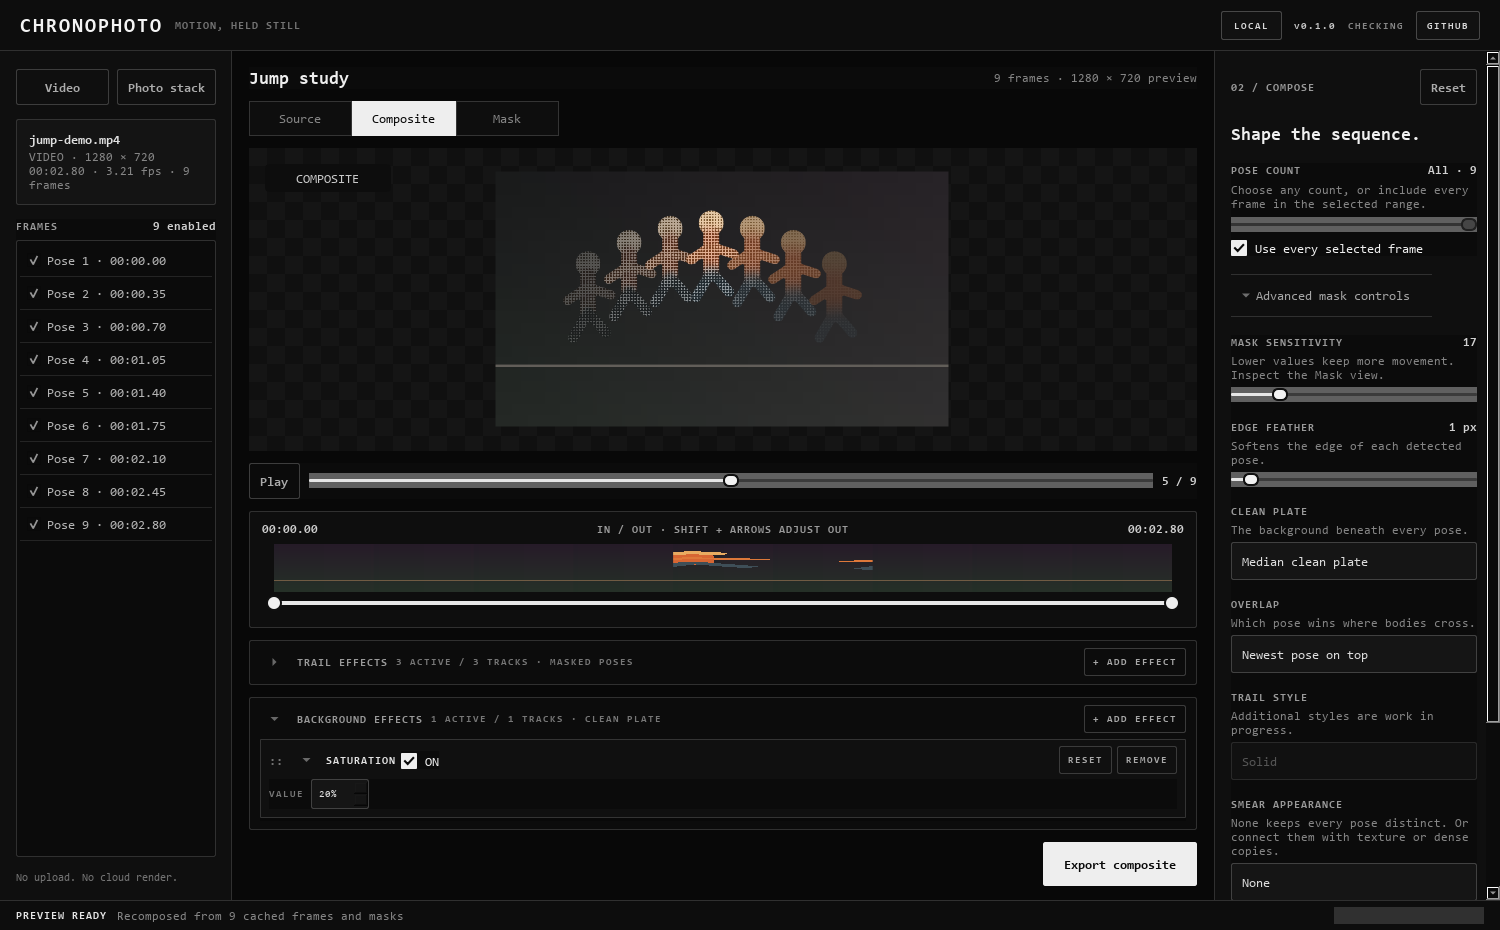
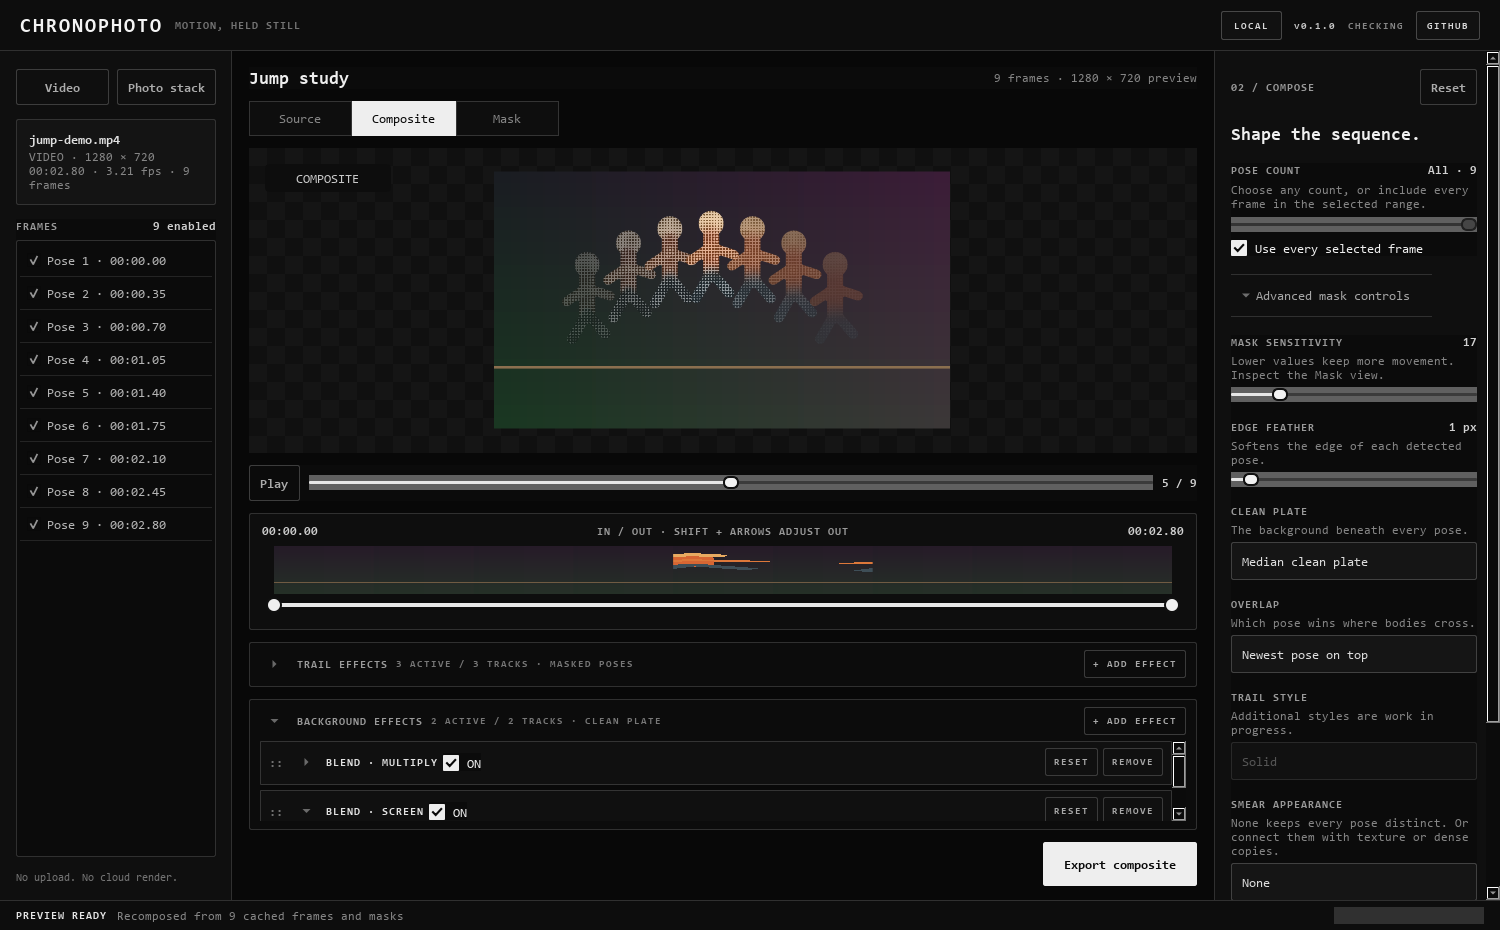
Allow ordered blend mode stacks

diff --git a/src/chronophoto/ui/effects.py b/src/chronophoto/ui/effects.py
@@ -319,6 +319,7 @@ class EffectLane(QFrame):
         self.setObjectName("effectLane")
         self._track = track
         self._keyframed = keyframed
+        self._narrow = False
         layout = QVBoxLayout(self)
         layout.setContentsMargins(8, 6, 8, 8)
         layout.setSpacing(5)
@@ -334,8 +335,8 @@ class EffectLane(QFrame):
         self.collapse_button.setArrowType(Qt.ArrowType.DownArrow)
         self.collapse_button.setToolTip("Collapse effect lane")
         self.collapse_button.clicked.connect(self._toggle_collapsed)
-        label = QLabel(EFFECT_LABELS[track.kind].upper())
-        label.setObjectName("effectName")
+        self.name_label = QLabel(EFFECT_LABELS[track.kind].upper())
+        self.name_label.setObjectName("effectName")
         self.enabled_box = QCheckBox("ON")
         self.enabled_box.setChecked(track.enabled)
         self.enabled_box.setToolTip("Bypass this effect without losing its settings")
@@ -364,7 +365,7 @@ class EffectLane(QFrame):
         self.more_button.hide()
         header.addWidget(self.drag_handle)
         header.addWidget(self.collapse_button)
-        header.addWidget(label)
+        header.addWidget(self.name_label)
         header.addWidget(self.enabled_box)
         header.addStretch()
         header.addWidget(self.preset)
@@ -460,6 +461,7 @@ class EffectLane(QFrame):
         self.position_label.setVisible(keyframed)
         self.position_spin.setVisible(keyframed)
         self.graph.setVisible(keyframed)
+        self._sync_name_label()
         self._sync_enabled_style()
 
     @property
@@ -532,6 +534,7 @@ class EffectLane(QFrame):
         with QSignalBlocker(self.preset):
             self.preset.setCurrentIndex(0)
         self.graph.set_keyframes(self._track.keyframes)
+        self._sync_name_label()
         self._sync_enabled_style()
         self.track_committed.emit(self._track)
 
@@ -543,7 +546,17 @@ class EffectLane(QFrame):
         if self.mode_combo is None or self.mode_combo.currentData() is None:
             return
         self._replace_track(option=str(self.mode_combo.currentData()))
+        self._sync_name_label()
         self.track_committed.emit(self._track)
+
+    def _sync_name_label(self) -> None:
+        if self._track.kind == "blend_mode":
+            separator = "/" if self._narrow else " · "
+            self.name_label.setText(
+                f"BLEND{separator}{BLEND_MODE_LABELS[self._track.option].upper()}"
+            )
+            return
+        self.name_label.setText(EFFECT_LABELS[self._track.kind].upper())
 
     def _keyframes_changing(self, keyframes: object) -> None:
         with QSignalBlocker(self.preset):
@@ -583,6 +596,8 @@ class EffectLane(QFrame):
     def set_compact(self, compact: bool) -> None:
         self.graph.setMinimumHeight(50 if compact else 60)
         narrow = compact or self.window().width() < 1100 or self.width() < 650
+        self._narrow = narrow
+        self._sync_name_label()
         self.reset_button.setVisible(not narrow)
         self.remove_button.setVisible(not narrow)
         self.more_button.setVisible(narrow)
@@ -598,7 +613,8 @@ class EffectLane(QFrame):
         if self.mode_label is not None:
             self.mode_label.setVisible(not narrow)
         if self.mode_combo is not None:
-            self.mode_combo.setFixedWidth(144 if narrow else 184)
+            self.mode_combo.setMinimumContentsLength(10 if narrow else 16)
+            self.mode_combo.setFixedWidth(126 if narrow else 184)
         self.graph.setVisible(self._keyframed)
         self.layout().invalidate()
         self.updateGeometry()
@@ -704,18 +720,15 @@ class EffectTimelinePanel(QFrame):
             lane.set_compact(compact)
         self.lane_layout.invalidate()
         self.lane_container.updateGeometry()
-        self.setMinimumHeight(
-            132
-            if self._lanes and self._expanded and self._keyframed
-            else 82
-            if self._lanes and self._expanded
-            else 0
-        )
+        self.setMinimumHeight(self._expanded_minimum_height())
 
     def add_effect(self, kind: str) -> EffectLane:
         if kind not in EFFECT_KINDS:
             raise ValueError(f"unsupported effect: {kind}")
-        existing = next((lane for lane in self._lanes if lane.track.kind == kind), None)
+        existing = next(
+            (lane for lane in self._lanes if lane.track.kind == kind and kind != "blend_mode"),
+            None,
+        )
         if existing is not None:
             existing.show()
             return existing
@@ -746,8 +759,11 @@ class EffectTimelinePanel(QFrame):
         menu = QMenu(self)
         active = {lane.track.kind for lane in self._lanes}
         for kind in EFFECT_KINDS:
-            action = menu.addAction(EFFECT_LABELS[kind])
-            action.setEnabled(kind not in active)
+            label = EFFECT_LABELS[kind]
+            if kind == "blend_mode" and kind in active:
+                label = "Blend mode · add another"
+            action = menu.addAction(label)
+            action.setEnabled(kind == "blend_mode" or kind not in active)
             action.triggered.connect(lambda checked=False, selected=kind: self.add_effect(selected))
         menu.exec(self.add_button.mapToGlobal(self.add_button.rect().bottomLeft()))
 
@@ -785,13 +801,16 @@ class EffectTimelinePanel(QFrame):
             if has_lanes
             else f"NO EFFECTS · {self._scope}"
         )
-        self.setMinimumHeight(
-            132
-            if has_lanes and self._expanded and self._keyframed
-            else 82
-            if has_lanes and self._expanded
-            else 0
-        )
+        self.setMinimumHeight(self._expanded_minimum_height())
+
+    def _expanded_minimum_height(self) -> int:
+        if not self._lanes or not self._expanded:
+            return 0
+        if self._keyframed:
+            return 132
+        if self._compact:
+            return 82
+        return min(128, 82 + max(0, len(self._lanes) - 1) * 38)
 
     def _drag_started(self, lane: object) -> None:
         self._drag_lane = lane if isinstance(lane, EffectLane) else None

diff --git a/tests/test_compositor.py b/tests/test_compositor.py
@@ -15,7 +15,12 @@ from chronophoto.processing.compositor import (
     build_compose_cache,
     compose_sequence,
 )
-from chronophoto.processing.effects import EffectKeyframe, EffectTrack, neutral_effect_track
+from chronophoto.processing.effects import (
+    EffectKeyframe,
+    EffectTrack,
+    blend_mode_rgb,
+    neutral_effect_track,
+)
 
 
 def moving_subject_frames(count: int = 7) -> list[np.ndarray]:
@@ -284,6 +289,34 @@ def test_blend_mode_uses_the_existing_composite_as_its_backdrop() -> None:
     assert result[20, 18] == pytest.approx(expected_first, abs=1.0)
     assert result[20, 56] == pytest.approx(expected_second, abs=1.0)
     assert np.array_equal(result[2, 2], background[2, 2])
+
+
+def test_blend_mode_tracks_stack_against_the_previous_lane_result() -> None:
+    background = np.full((4, 4, 3), (80, 120, 160), dtype=np.uint8)
+    source = np.full_like(background, (210, 70, 40))
+    frames = [source, background.copy()]
+    masks = [np.full((4, 4), 255, dtype=np.uint8), np.zeros((4, 4), dtype=np.uint8)]
+    full = (EffectKeyframe(0.0, 100.0), EffectKeyframe(1.0, 100.0))
+    multiply = EffectTrack("blend_mode", full, option="multiply")
+    screen = EffectTrack("blend_mode", full, option="screen")
+
+    stacked, _ = compose_sequence(
+        frames,
+        ComposeSettings(trail_effect_tracks=(multiply, screen)),
+        cache=ComposeCache(background, masks),
+    )
+    reversed_stack, _ = compose_sequence(
+        frames,
+        ComposeSettings(trail_effect_tracks=(screen, multiply)),
+        cache=ComposeCache(background, masks),
+    )
+
+    first_lane = blend_mode_rgb(
+        background.astype(np.float32), source.astype(np.float32), "multiply"
+    )
+    expected = blend_mode_rgb(first_lane, source.astype(np.float32), "screen")
+    assert stacked[0, 0] == pytest.approx(expected[0, 0], abs=1.0)
+    assert not np.array_equal(stacked, reversed_stack)
 
 
 def test_zero_blend_strength_is_identical_to_normal_compositing() -> None:

diff --git a/tests/test_ui.py b/tests/test_ui.py
@@ -326,6 +326,41 @@ def test_blend_mode_lane_exposes_all_modes_and_commits_selection() -> None:
     window.close()
 
 
+def test_blend_mode_lanes_can_be_stacked_in_both_effect_scopes() -> None:
+    app = QApplication.instance() or QApplication([])
+    window = ChronophotoWindow()
+    window.resize(1500, 900)
+    window.show()
+    app.processEvents()
+
+    with QSignalBlocker(window.trail_effect_timeline):
+        multiply = window.trail_effect_timeline.add_effect("blend_mode")
+        screen = window.trail_effect_timeline.add_effect("blend_mode")
+        first_blur = window.trail_effect_timeline.add_effect("blur")
+        repeated_blur = window.trail_effect_timeline.add_effect("blur")
+        assert screen.mode_combo is not None
+        screen.mode_combo.setCurrentIndex(screen.mode_combo.findData("screen"))
+    assert multiply is not screen
+    assert first_blur is repeated_blur
+    assert multiply.mode_combo is not None
+    assert [track.option for track in window.trail_effect_timeline.tracks()[:2]] == [
+        "multiply",
+        "screen",
+    ]
+    assert multiply.name_label.text().startswith("BLEND")
+    assert screen.name_label.text().startswith("BLEND")
+
+    with QSignalBlocker(window.background_effect_timeline):
+        background_multiply = window.background_effect_timeline.add_effect("blend_mode")
+        background_overlay = window.background_effect_timeline.add_effect("blend_mode")
+    assert background_multiply is not background_overlay
+    assert [track.kind for track in window.background_effect_timeline.tracks()] == [
+        "blend_mode",
+        "blend_mode",
+    ]
+    window.close()
+
+
 def test_effect_keyframe_graph_emits_live_and_committed_updates() -> None:
     _app = QApplication.instance() or QApplication([])
     graph = EffectKeyframeGraph(

diff --git a/src/chronophoto/processing/compositor.py b/src/chronophoto/processing/compositor.py
@@ -339,12 +339,14 @@ def _blend_region(
     alpha_3d = np.clip(alpha, 0.0, 1.0)[..., None]
     normal = source * alpha_3d + target * (1.0 - alpha_3d)
     composite = normal
+    stacked_mode = False
     for track in blend_tracks:
         if not track.enabled or track.kind != "blend_mode":
             continue
         strength = track.value_at(effect_progress) / 100.0
         if strength <= 0.00001 or track.option == "normal":
             continue
+        mode_backdrop = composite if stacked_mode else target
         if track.option == "dissolve":
             height, width = alpha.shape
             y, x = np.indices((height, width), dtype=np.uint32)
@@ -352,11 +354,12 @@ def _blend_region(
             y += np.uint32(max(0, origin[1]))
             noise = ((x * 1597334677) ^ (y * 3812015801)) & 0xFFFF
             visible = noise.astype(np.float32) / 65535.0 < alpha
-            mode_composite = np.where(visible[..., None], source, target)
+            mode_composite = np.where(visible[..., None], source, mode_backdrop)
         else:
-            mode_source = blend_mode_rgb(target, source, track.option)
-            mode_composite = mode_source * alpha_3d + target * (1.0 - alpha_3d)
+            mode_source = blend_mode_rgb(mode_backdrop, source, track.option)
+            mode_composite = mode_source * alpha_3d + mode_backdrop * (1.0 - alpha_3d)
         composite = composite * (1.0 - strength) + mode_composite * strength
+        stacked_mode = True
     return composite
 
 

diff --git a/src/chronophoto/processing/effects.py b/src/chronophoto/processing/effects.py
@@ -531,20 +531,23 @@ def apply_background_effect_tracks(
     source = processed.astype(np.float32)
     alpha_3d = alpha[..., None]
     composite = source * alpha_3d + backdrop * (1.0 - alpha_3d)
+    stacked_mode = False
     for track in active:
         if track.kind != "blend_mode":
             continue
         strength = track.value_at(0.5) / 100.0
         if strength <= 0.00001 or track.option == "normal":
             continue
+        mode_backdrop = composite if stacked_mode else backdrop
         if track.option == "dissolve":
             height, width = alpha.shape
             y, x = np.indices((height, width), dtype=np.uint32)
             noise = ((x * 1597334677) ^ (y * 3812015801)) & 0xFFFF
             visible = noise.astype(np.float32) / 65535.0 < alpha
-            mode_composite = np.where(visible[..., None], source, backdrop)
+            mode_composite = np.where(visible[..., None], source, mode_backdrop)
         else:
-            mode_source = blend_mode_rgb(backdrop, source, track.option)
-            mode_composite = mode_source * alpha_3d + backdrop * (1.0 - alpha_3d)
+            mode_source = blend_mode_rgb(mode_backdrop, source, track.option)
+            mode_composite = mode_source * alpha_3d + mode_backdrop * (1.0 - alpha_3d)
         composite = composite * (1.0 - strength) + mode_composite * strength
+        stacked_mode = True
     return np.clip(composite, 0.0, 255.0).astype(np.uint8)

diff --git a/tests/test_effects.py b/tests/test_effects.py
@@ -159,6 +159,23 @@ def test_background_effects_process_a_duplicate_of_the_clean_plate() -> None:
     assert np.array_equal(hidden_blur, background)
 
 
+def test_background_blend_modes_stack_in_track_order() -> None:
+    background = np.full((6, 8, 3), (80, 120, 160), dtype=np.uint8)
+    full = (EffectKeyframe(0.0, 100.0), EffectKeyframe(1.0, 100.0))
+    multiply = EffectTrack("blend_mode", full, option="multiply")
+    screen = EffectTrack("blend_mode", full, option="screen")
+
+    stacked = apply_background_effect_tracks(background, (multiply, screen))
+    reversed_stack = apply_background_effect_tracks(background, (screen, multiply))
+
+    first_lane = blend_mode_rgb(
+        background.astype(np.float32), background.astype(np.float32), "multiply"
+    )
+    expected = blend_mode_rgb(first_lane, background.astype(np.float32), "screen")
+    assert stacked[0, 0] == pytest.approx(expected[0, 0], abs=1.0)
+    assert not np.array_equal(stacked, reversed_stack)
+
+
 def test_opacity_only_changes_the_subject_alpha() -> None:
     frame, mask = subject_fixture()
     track = EffectTrack(

diff --git a/scripts/capture_readme.py b/scripts/capture_readme.py
@@ -100,8 +100,12 @@ def main() -> int:
         halftone.preset.setCurrentIndex(halftone.preset.findData("fall"))
         halftone.amount_spin.setValue(8)
     with QSignalBlocker(window.background_effect_timeline):
-        saturation = window.background_effect_timeline.add_effect("saturation")
-        saturation.value_spin.setValue(20)
+        multiply = window.background_effect_timeline.add_effect("blend_mode")
+        screen = window.background_effect_timeline.add_effect("blend_mode")
+        assert screen.mode_combo is not None
+        screen.mode_combo.setCurrentIndex(screen.mode_combo.findData("screen"))
+        multiply._toggle_collapsed()
+        screen._toggle_collapsed()
     window.trail_effect_timeline.set_expanded(False)
     window.background_effect_timeline.set_expanded(True)
     window.render_preview()

diff --git a/README.md b/README.md
@@ -106,7 +106,8 @@ disabled frames, and overlap order.
 - **Blend mode** mixes each pose with the composite beneath it. Choose from 27
   familiar modes including Multiply, Screen, Overlay, Soft Light, Difference,
   Hue, Color, and Luminosity, then keyframe the strength from Normal to the
-  selected mode.
+  selected mode. Add Blend Mode repeatedly to build an order-dependent stack;
+  each lane receives the composited result of the lane beneath it.
 - **Saturation** moves between grayscale and the original colour.
 - **Blur** uses a configurable maximum radius in output pixels.
 - **JPEG quality** runs from visibly damaged at 0% to clean at 100%.
